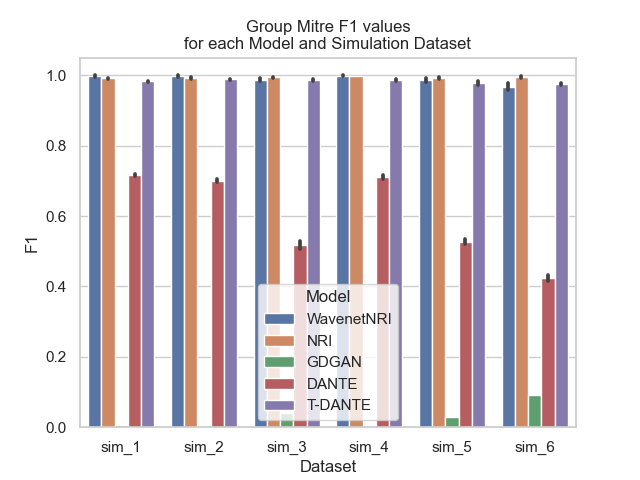
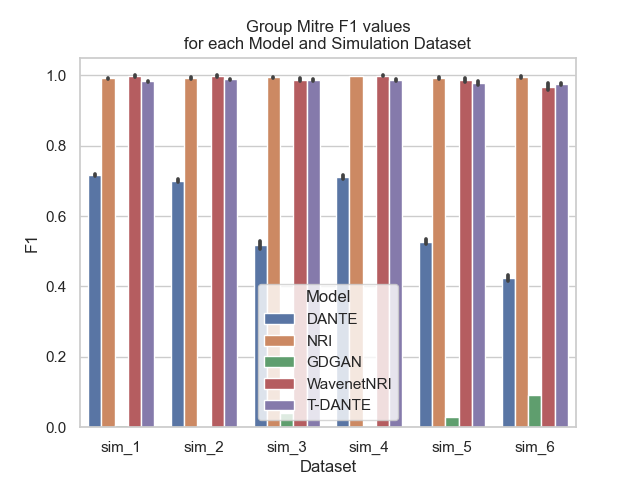
fixed order of models

diff --git a/models/plotter.py b/models/plotter.py
@@ -314,12 +314,13 @@ if __name__ == '__main__':
     bas_pede = pd.concat([pede_dante_results,
                           pede_nri_results,
                           pede_gdgan_results,
-                          pede_wavenet_results, pede_tdante_results])
+                          pede_wavenet_results,
+                          pede_tdante_results])
     bas_pede = bas_pede[~bas_pede['name'].isin(['DANTE c4', 'T-DANTE c4'])]
-    bas_sim = pd.concat([sim_wavenet_results,
+    bas_sim = pd.concat([sim_dante_results,
                          sim_nri_results,
                          sim_gdgan_results,
-                         sim_dante_results,
+                         sim_wavenet_results,
                          sim_tdante_results])
     bas_sim = bas_sim[~bas_sim['name'].isin(['T-DANTE c8'])]
     bas_pede['name'] = bas_pede['name'].replace(['DANTE c8', 'T-DANTE c8'], ['DANTE', 'T-DANTE'])
